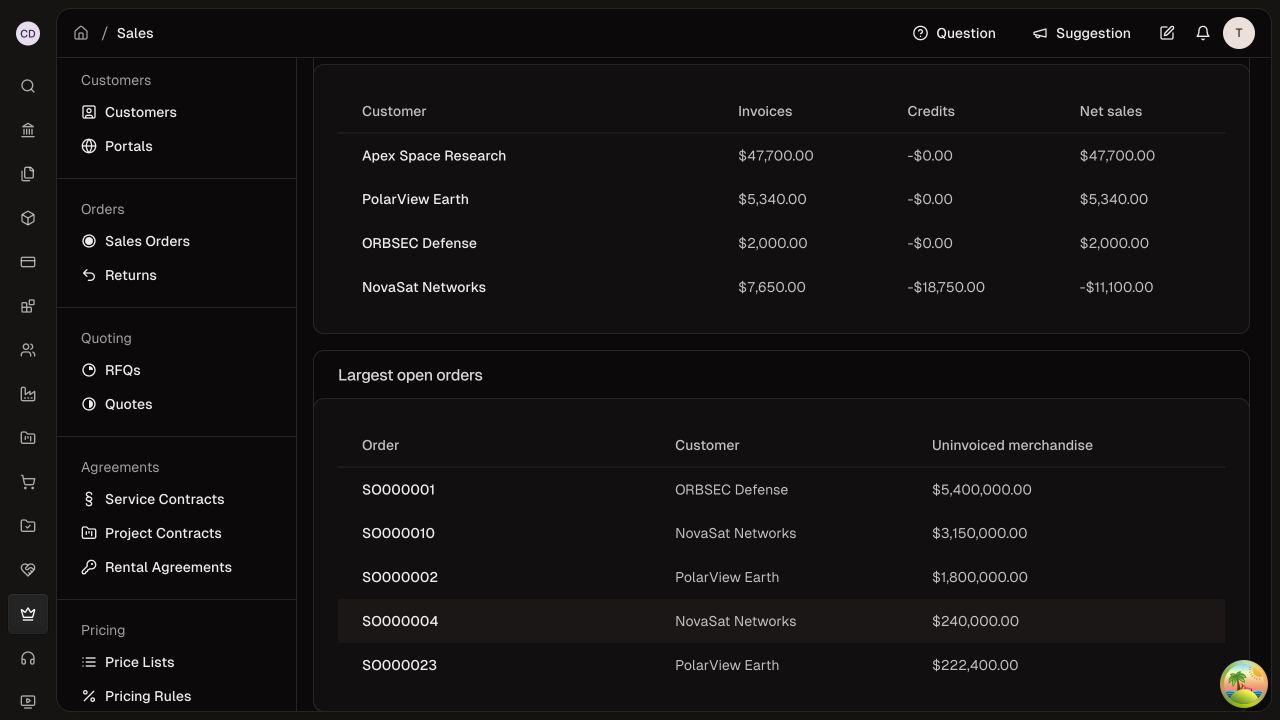
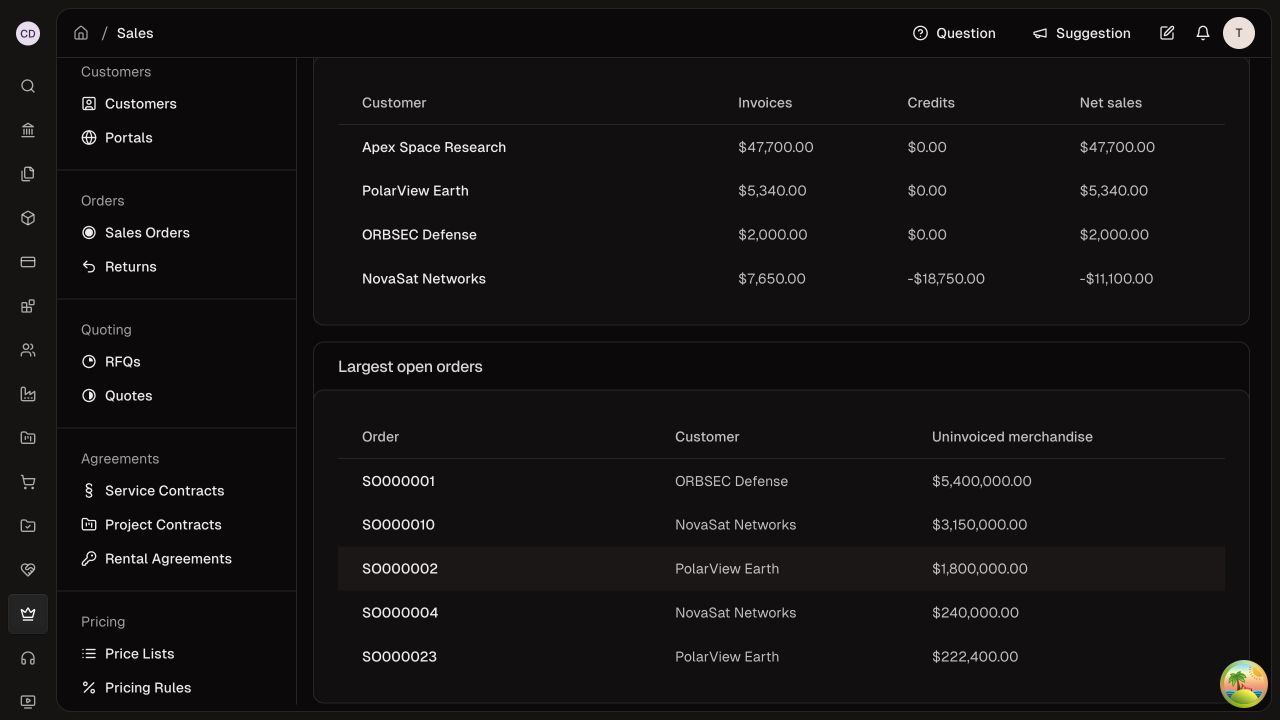
fix(sales): render zero credits without a negative sign

diff --git a/apps/erp/app/routes/x+/sales+/_index.tsx b/apps/erp/app/routes/x+/sales+/_index.tsx
@@ -324,7 +324,7 @@ export default function SalesDashboard() {
             <MetricCard
               icon={<LuReceiptText />}
               title={<Trans>Customer credits</Trans>}
-              value={currency.format(-credits)}
+              value={currency.format(credits === 0 ? 0 : -credits)}
               description={
                 <Trans>Full posted credits, including any tax or freight</Trans>
               }
@@ -446,7 +446,11 @@ export default function SalesDashboard() {
                             </Hyperlink>
                           </Td>
                           <Td>{currency.format(customer.invoiceSales)}</Td>
-                          <Td>{currency.format(-customer.credits)}</Td>
+                          <Td>
+                            {currency.format(
+                              customer.credits === 0 ? 0 : -customer.credits
+                            )}
+                          </Td>
                           <Td>
                             {currency.format(
                               customer.invoiceSales - customer.credits
